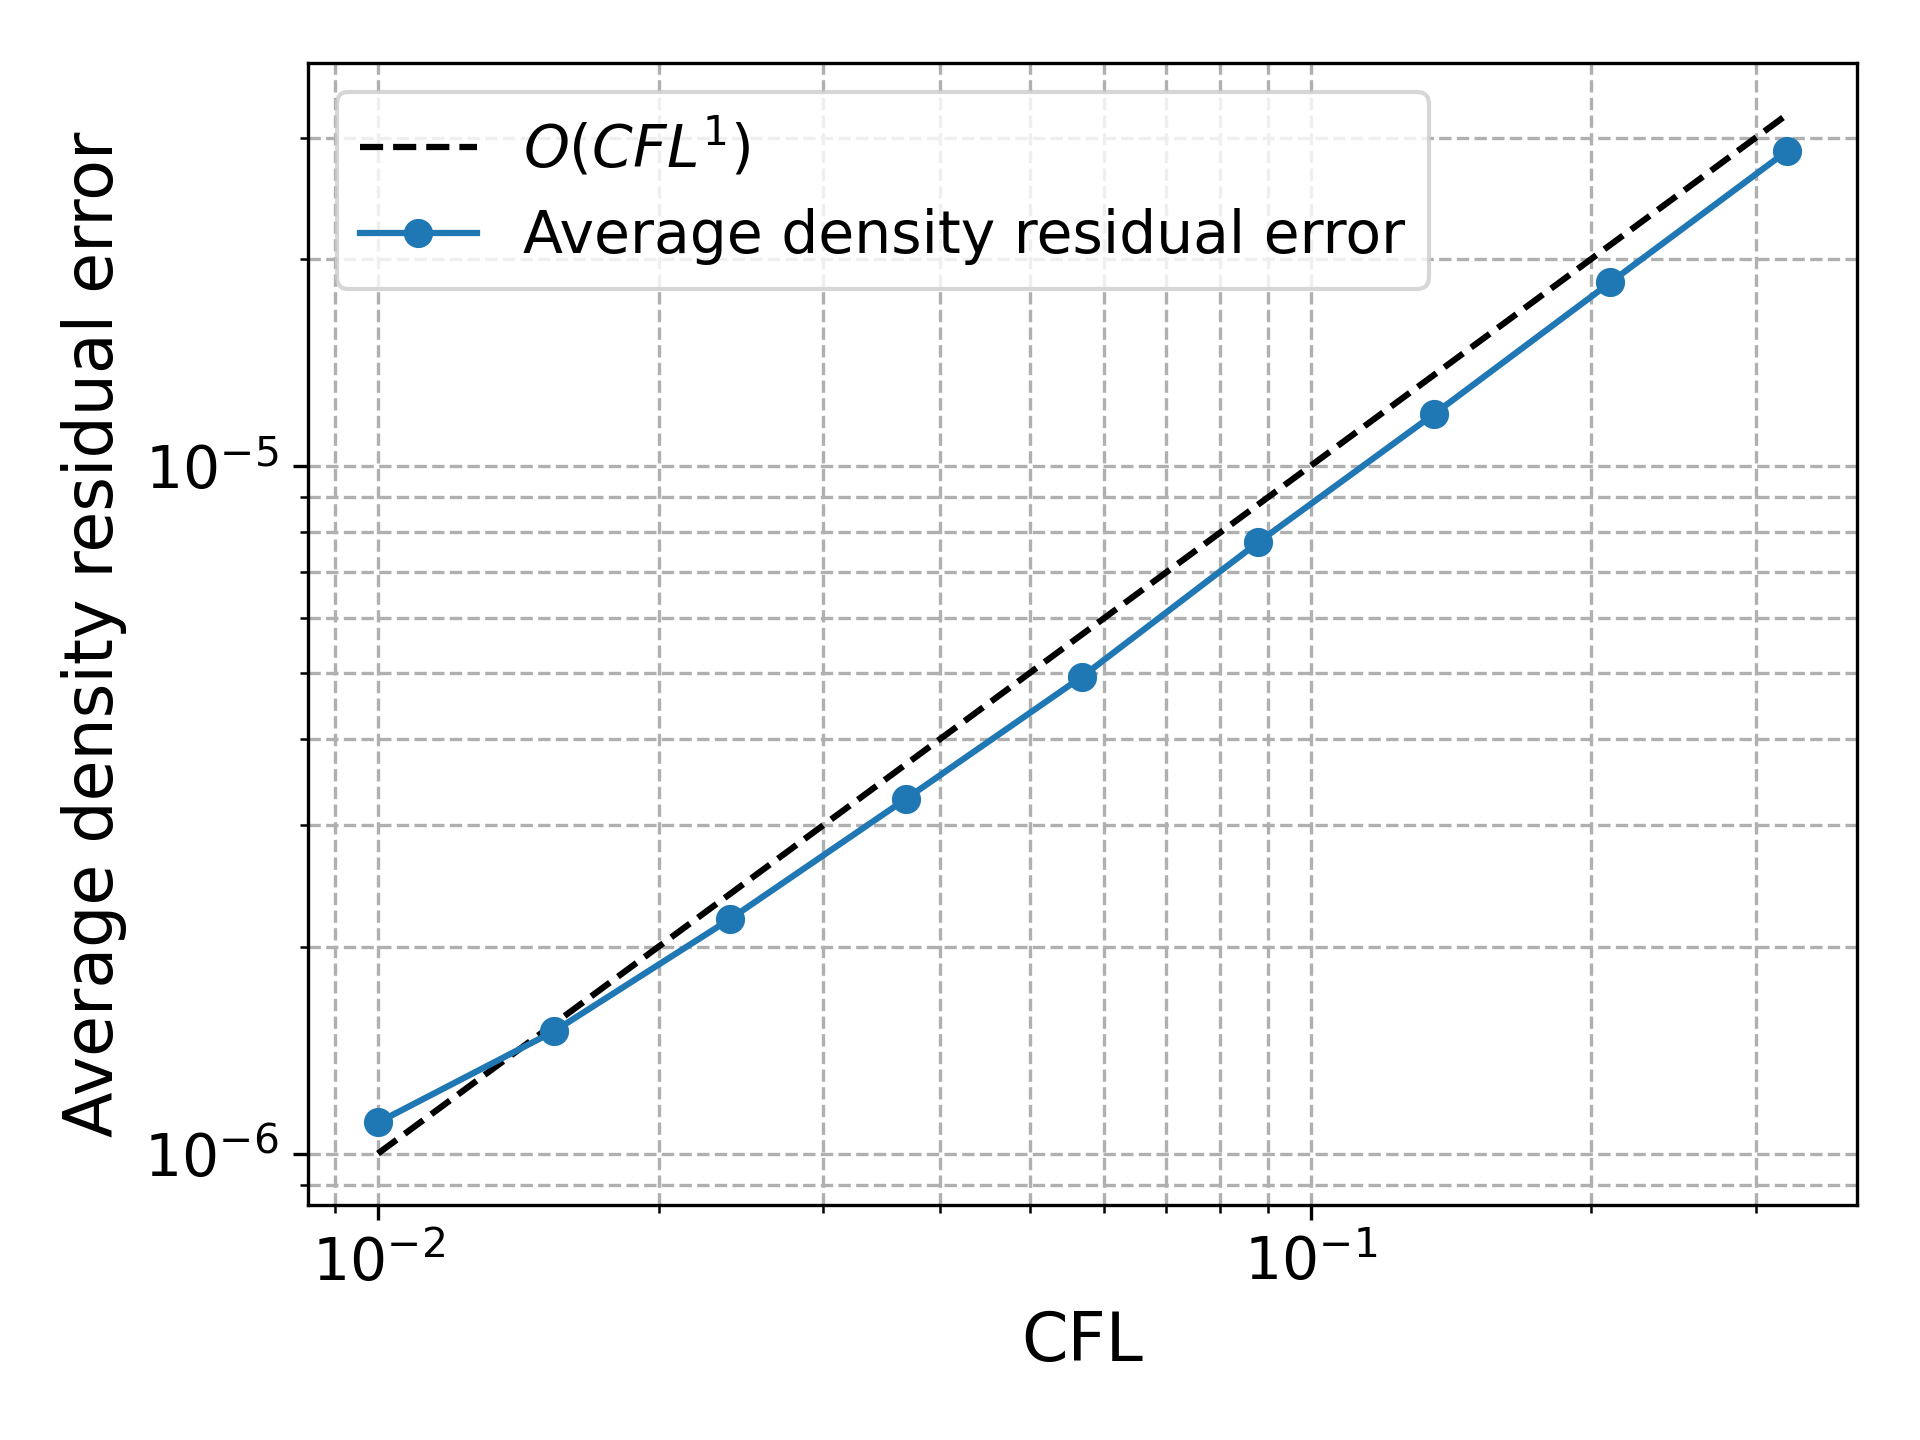
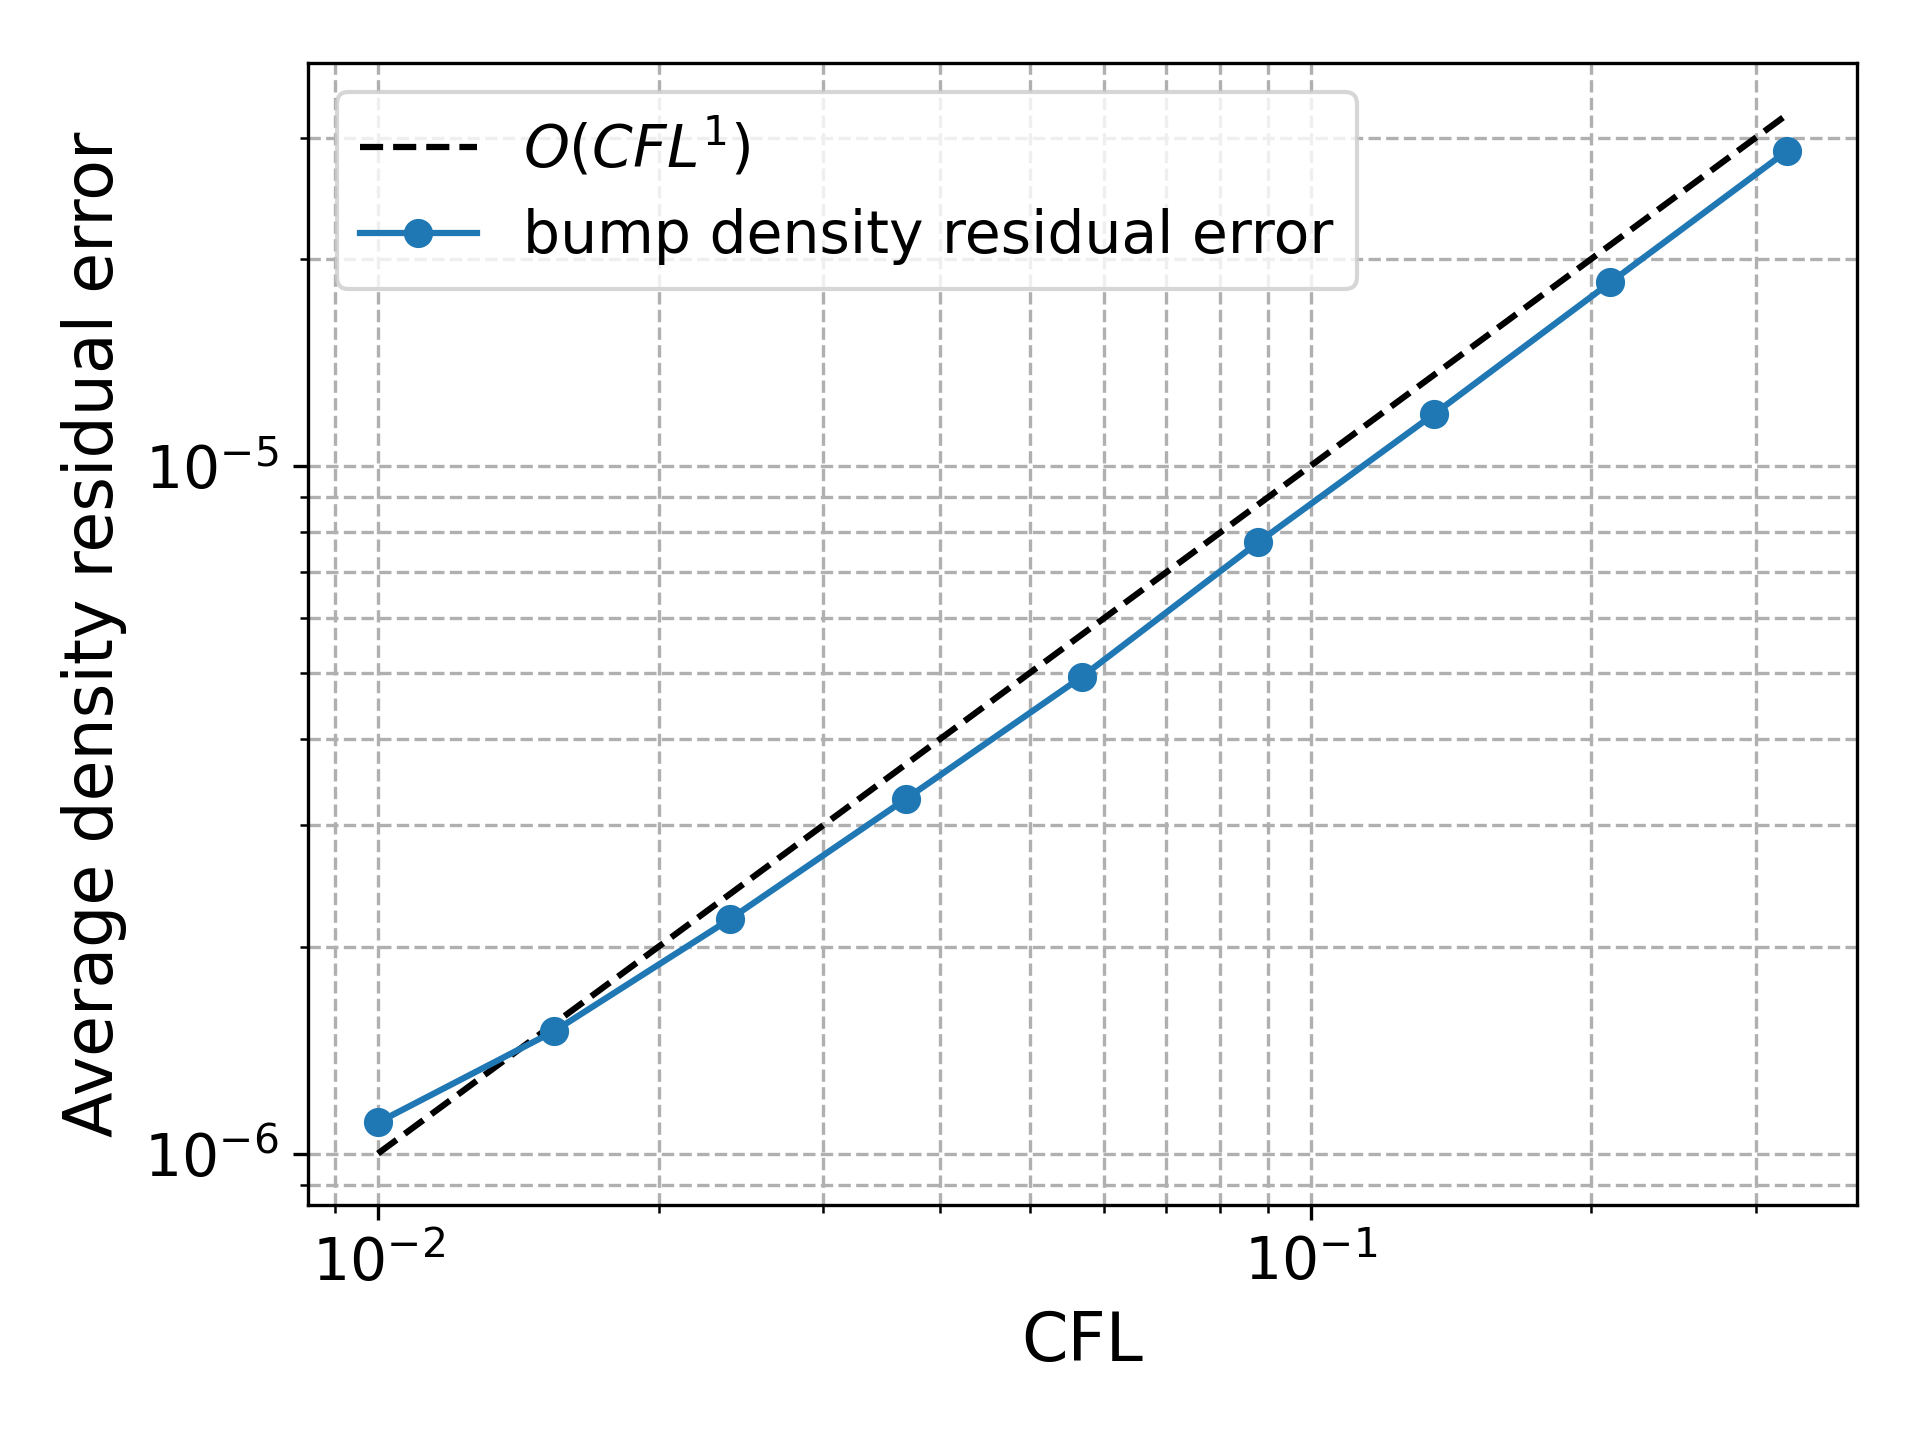
cleanup of files and plots

Changed region(s): [[0.2812, 0.125, 0.75, 0.1875], [0.6875, 0.0625, 0.75, 0.0938]]

diff --git a/report/interim/interim.tex b/report/interim/interim.tex
@@ -82,9 +82,12 @@
 \subsection{Purpose}
 
 
-\subsection{Results}
+Higher values of ni tested caused a fatal exception in chkstk.asm which indicated that the program ran out of stack space when allocating the grid arrays.
+This was resolved by increasing the stack size 
 
-\begin{table}[h!]
+\subsection{Appendix}
+
+\begin{table}[H]
     \centering
     \begin{tabular}{lcc}
         \toprule
@@ -104,21 +107,24 @@
     \label{tab:performance}
 \end{table}
 
-\begin{figure}
+
+\begin{figure}[H]
     \centering
-    \includegraphics[width=0.8\textwidth]{figures/bump_d_avg_cfl.png}
-    \caption{}
-    \label{fig:bump_d_avg_cfl}
+    \begin{subfigure}{0.49\textwidth}
+        \centering
+        \includegraphics[width=0.99\textwidth]{figures/bump_d_avg_cfl.png}
+        \caption{}
+        \label{fig:bump_d_avg_cfl}
+    \end{subfigure}
+    \begin{subfigure}{0.49\textwidth}
+        \centering
+        \includegraphics[width=0.99\textwidth]{figures/bump_d_avg_ni.png}
+        \caption{}
+        \label{fig:bump_d_avg_ni}
+    \end{subfigure}
 \end{figure}
 
-\begin{figure}
-    \centering
-    \includegraphics[width=0.8\textwidth]{figures/bump_d_avg_ni.png}
-    \caption{}
-    \label{fig:bump_d_avg_ni}
-\end{figure}
-
-\begin{figure}
+\begin{figure}[H]
     \centering
     \begin{subfigure}{0.49\textwidth}
         \centering
@@ -133,14 +139,6 @@
         \label{fig:bump_residual}
     \end{subfigure}
 \end{figure}
-
-Higher values of ni tested caused a fatal exception in chkstk.asm which indicated that the program ran out of stack space when allocating the grid arrays.
-This was resolved by increasing the stack size 
-
-\subsection{Objectives}
-% set goal of what to achieve
-
-% bibliography
 
 \begin{thebibliography}{9}
 

diff --git a/report/interim/plot_compute_time.py b/report/interim/plot_compute_time.py
@@ -399,7 +399,7 @@ def plot_d_avg_cfl(casename):
     x = np.linspace(np.min(history[:, 0]), np.max(history[:, 0]), 100)
     ax.loglog(x, 1e-4 * x**1, 'k--', label=r'$O(CFL^1)$')
 
-    ax.loglog(history[:, 0], history[:, 6], 'o-', label = 'Average density residual error')
+    ax.loglog(history[:, 0], history[:, 6], 'o-', label = f'{casename} density residual error')
 
     ax.set_xlabel('CFL')
     ax.set_ylabel('Average density residual error')
@@ -435,7 +435,7 @@ def plot_d_avg_ni(casename):
     x = np.linspace(np.min(history[:, 7]), np.max(history[:, 7]), 100)
     ax.loglog(x, 3e-2 * x**-2, 'k--', label=r'$O(ni^{-2})$')
 
-    ax.loglog(history[:, 7], history[:, 6], 'o-', label = 'Average density residual error')
+    ax.loglog(history[:, 7], history[:, 6], 'o-', label = f'{casename} density residual error')
 
     ax.set_xlabel('ni')
     ax.set_ylabel('Average density residual error')

diff --git a/postprocessing/plot_contours.py b/postprocessing/plot_contours.py
@@ -63,6 +63,8 @@ def main():
         # Draw the walls of the block
         plot_wall(ax,g)
 
+        fig.savefig(f'report/interim/figures/{sys.argv[-1]}_{name}.png', dpi=300)
+
     # Show all the plots
     plt.show()
 
